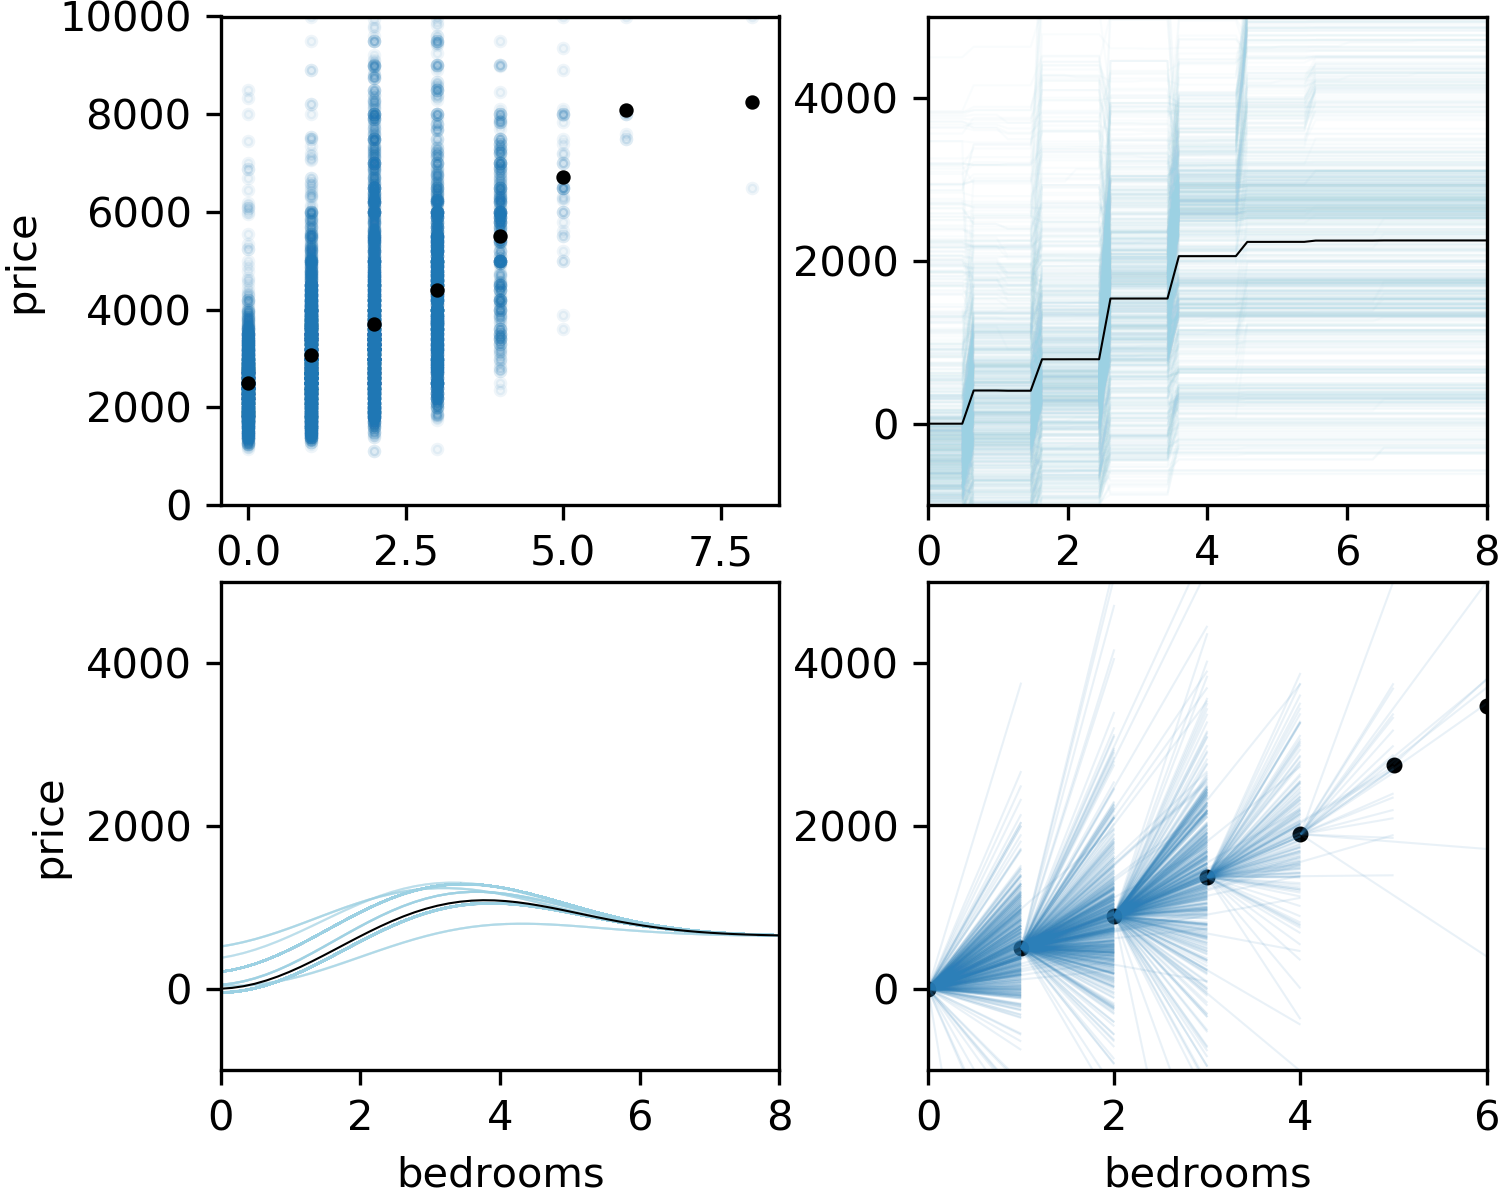
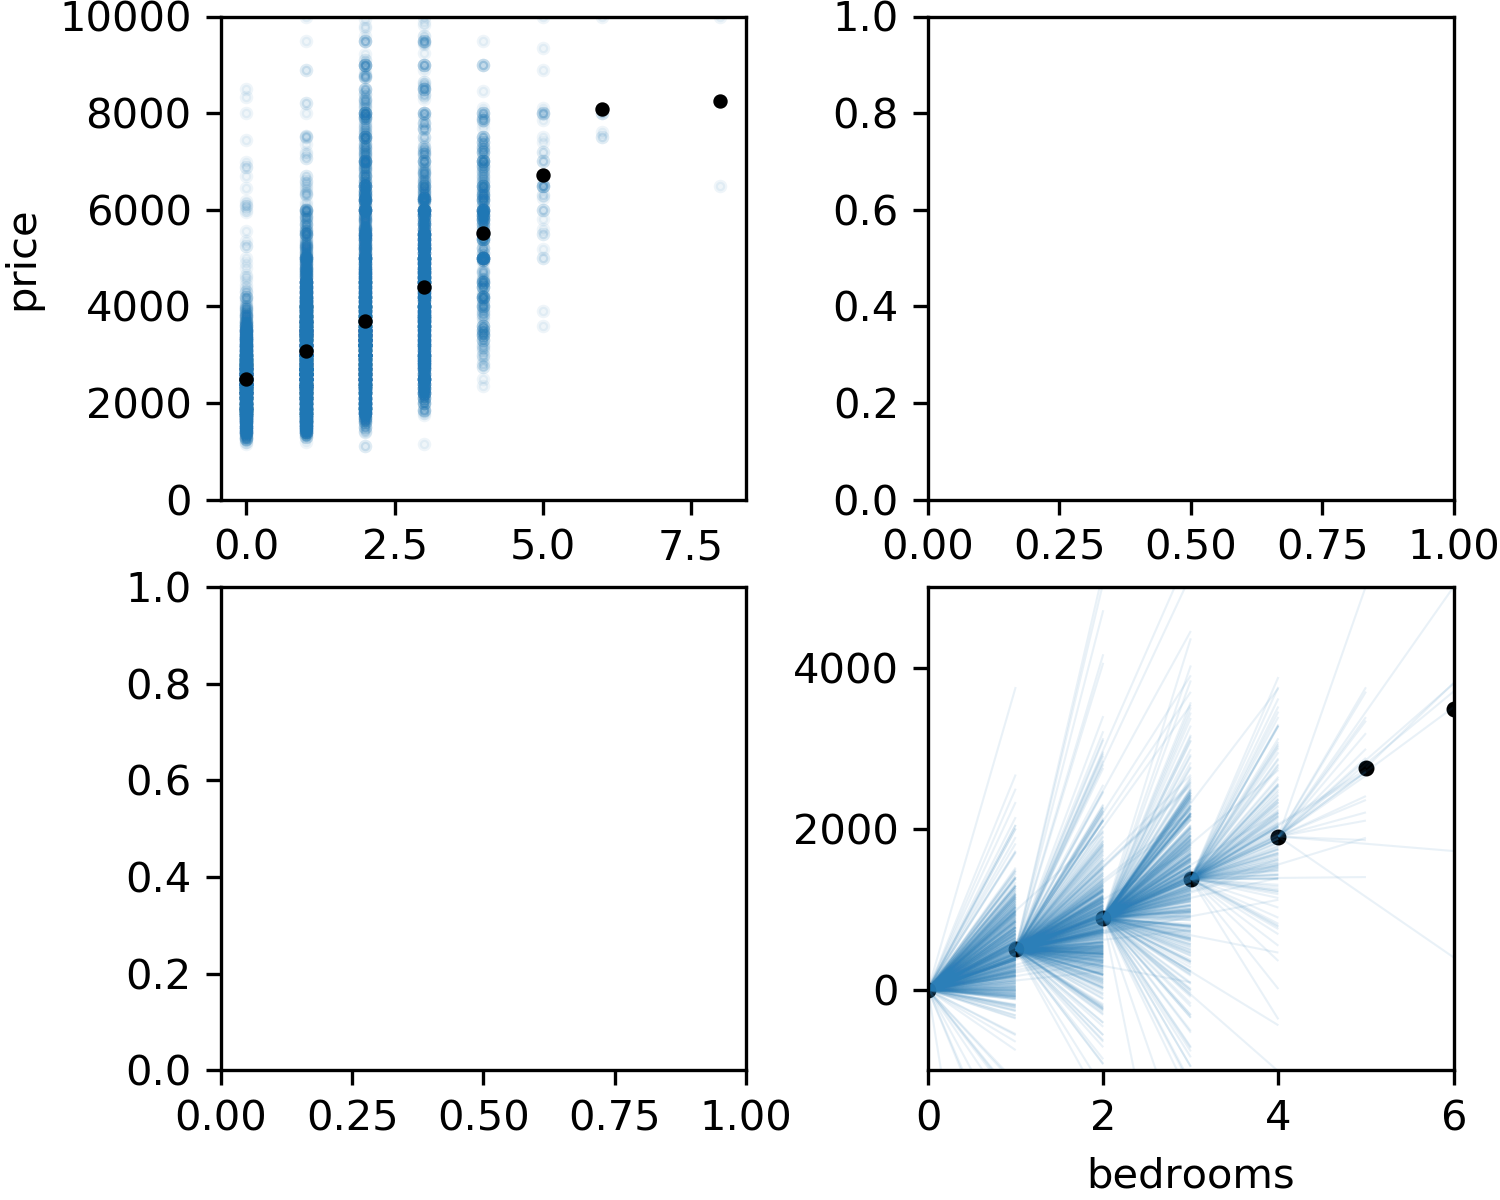
playing with figs.

diff --git a/articles/regr/genfigs.py b/articles/regr/genfigs.py
@@ -156,6 +156,51 @@ def rent():
     plt.close()
 
 
+def rent_alone():
+    print(f"----------- {inspect.stack()[0][3]} -----------")
+    df_rent = load_rent()
+    df_rent = df_rent[-10_000:]  # get a small subsample
+    X = df_rent.drop('price', axis=1)
+    y = df_rent['price']
+
+    X = df_rent.drop('price', axis=1)
+    y = df_rent['price']
+
+    def onevar(colname, row, col, yrange=None, alpha=.2):
+        uniq_x, curve, r2_at_x, ignored = \
+            plot_stratpd(X, y, colname, 'price', ax=axes[row, col],
+                         min_samples_leaf=20,
+                         yrange=yrange,
+                         alpha=alpha,
+                         nbins=3,
+                         isdiscrete=False,
+                         pdp_marker_size=2 if row>=2 else 8,
+                         verbose=False)
+        uniq_x, curve, r2_at_x, ignored = \
+            plot_stratpd(X, y, colname, 'price', ax=axes[row, col+1],
+                         min_samples_leaf=10,
+                         yrange=yrange,
+                         alpha=alpha,
+                         nbins=3,
+                         isdiscrete=True,
+                         pdp_marker_size=2 if row>=2 else 8,
+                         verbose=False)
+
+    fig, axes = plt.subplots(4, 2, figsize=(5, 8))#, sharey=True)
+    # for i in range(1, 4):
+    #     axes[0, i].get_yaxis().set_visible(False)
+    #     axes[1, i].get_yaxis().set_visible(False)
+    #     axes[2, i].get_yaxis().set_visible(False)
+
+    onevar('bedrooms', row=0, col=0, yrange=(0, 3000))
+    onevar('bathrooms', row=1, col=0, yrange=(-500, 3000))
+    onevar('latitude', row=2, col=0, yrange=(-500, 3000))
+    onevar('longitude', row=3, col=0, alpha=.08, yrange=(-3000, 1000))
+
+    savefig(f"rent_all")
+    plt.close()
+
+
 def rent_int():
     # np.random.seed(42)
     print(f"----------- {inspect.stack()[0][3]} -----------")
@@ -1497,10 +1542,11 @@ if __name__ == '__main__':
     # cars()
     # meta_cars()
     # rent()
+    rent_alone()
     # rent_ntrees()
     # rent_extra_cols()
     # meta_boston()
-    unsup_boston()
+    # unsup_boston()
     # unsup_rent()
     # weight()
     # weight_ntrees()

diff --git a/stratx/partdep.py b/stratx/partdep.py
@@ -4,11 +4,12 @@ from typing import Mapping, List, Tuple
 from collections import defaultdict
 import matplotlib.pyplot as plt
 from  matplotlib.collections import LineCollection
+import matplotlib.cm as cm
+from matplotlib.colors import Normalize
 from sklearn.linear_model import LinearRegression, Lasso
 from sklearn.ensemble import RandomForestClassifier
 from sklearn.ensemble import RandomForestRegressor
 from sklearn.tree import DecisionTreeRegressor, DecisionTreeClassifier
-# from scipy.stats.rv_continuous import entropy as scipy_entropy
 
 import time
 from pandas.api.types import is_string_dtype, is_object_dtype, is_categorical_dtype, is_bool_dtype
@@ -130,12 +131,13 @@ def piecewise_xc_space(x: np.ndarray, y: np.ndarray, colname, nbins:int, verbose
         bin_x = x[binned_idx == i]
         bin_y = y[binned_idx == i]
         if len(bin_x)<2: # either no or too little data
+            # print(f"ignoring xleft=xright @ {r[0]}")
+            ignored += len(bin_x)
             continue
         r = (np.min(bin_x), np.max(bin_x))
         if np.isclose(r[0], r[1]):
             # print(f"ignoring xleft=xright @ {r[0]}")
             ignored += len(bin_x)
-            continue
 
         lm = LinearRegression()
         bin_x = bin_x.reshape(-1, 1)
@@ -431,7 +433,9 @@ def plot_stratpd(X, y, colname, targetname=None,
     if len(uniq_x) != len(curve):
         raise AssertionError(f"len(uniq_x) = {len(uniq_x)}, but len(curve) = {len(curve)}; nbins={nbins}")
 
-    ax.scatter(uniq_x, curve, s=pdp_marker_size, alpha=1, c='black')
+    # plot partial dependence curve
+    # cmap = cm.afmhot(Normalize(vmin=0, vmax=ignored))
+    ax.scatter(uniq_x, curve, s=pdp_marker_size, c='k', alpha=1)
 
     if connect_pdp_dots:
         ax.plot(uniq_x, curve, ':',
